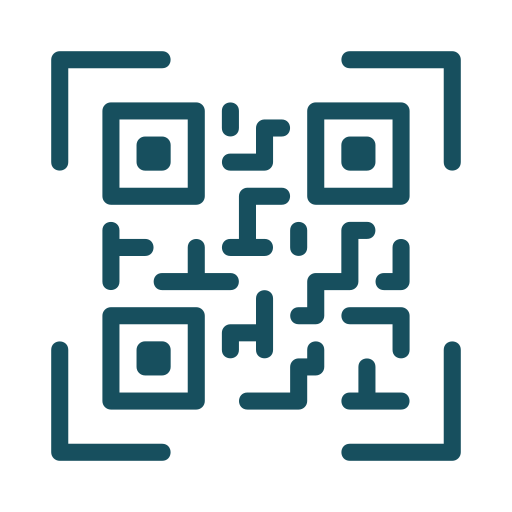
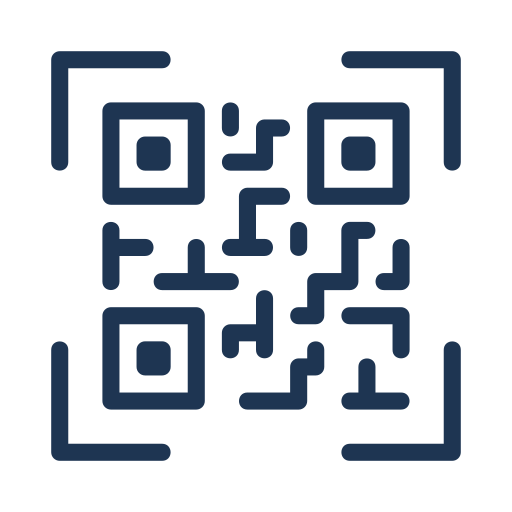
REFACTOR: change hero image and make web responsive for mobile

diff --git a/src/components/TheChat.vue b/src/components/TheChat.vue
@@ -81,7 +81,8 @@
 				const response = await axios.post(
 					"https://appservicecoche-a3emdug0gfeggxfk.westeurope-01.azurewebsites.net/chat",
 					{
-						query: userMessage + " " + brand.value + " "  + model.value,
+						query:
+							userMessage + " " + brand.value + " " + model.value,
 						prompt:
 							brand.value && model.value
 								? `Dentro de la compañía Stratesys Cars, especializada en venta de automóviles de segunda mano, eres un asistente útil que proporciona información sobre coches basándose únicamente en los datos proporcionados a continuación. Los automóviles están expuestos y tienen una pegatina QR identificativa en su parabrisas. En este caso el cliente ha escaneado el QR pegado al parabrisas del ${brand.value} ${model.value} y la conversación y respuestas deberían ir orientadas a su interés sobre este automóvil en concreto, iniciando cada una de las respuesta con un encabezado con la marca y modelo del coche cuya pegatina ha escaneado el cliente. No incluyas ninguna información que no esté presente en las fuentes. No utilices ningún conocimiento previo ni hagas suposiciones. Proporciona la respuesta de manera amigable y concisa en forma de viñetas. Si no hay suficiente información a continuación, di que no lo sabes. No menciones ningún coche ni detalles que no estén incluidos en las fuentes.`
@@ -170,7 +171,7 @@
 
 	/* Encabezado */
 	.chat-header {
-		background-color: #174f5e;
+		background-color: #1e3552;
 		color: #ffffff;
 		text-align: center;
 		padding: 1rem;
@@ -203,11 +204,11 @@
 
 	.chat-message i {
 		font-size: 20px;
-		color: #174f5e;
+		color: #1e3552;
 	}
 
 	.chat-message span {
-		background-color: #174f5e56;
+		background-color: #1e355256;
 		padding: 5px 10px;
 		border-radius: 5px;
 		color: black;
@@ -263,7 +264,7 @@
 	/* Botón de enviar */
 	.chat-input button {
 		padding: 0.75rem 1rem;
-		background-color: #174f5e;
+		background-color: #1e3552;
 		color: #ffffff;
 		font-size: 16px;
 		border: none;
@@ -275,9 +276,9 @@
 	}
 
 	.chat-input button:hover {
-		border: 1px solid #174f5e;
+		border: 1px solid #1e3552;
 		background-color: #ffffff;
-		color: #174f5e;
+		color: #1e3552;
 	}
 
 	/* Scroll personalizado */
@@ -322,6 +323,45 @@
 		100% {
 			box-shadow: 20px 0 #fff2, -20px 0 #fff;
 			background: #fff;
+		}
+	}
+
+	@media (max-width: 500px) {
+		.chat-container {
+			width: 350px;
+			height: 480px;
+			height: calc(100vh - 80px - 110px);
+		}
+		.chat-display {
+			height: calc(100vh - 80px - 110px - 65px);
+		}
+
+		.chat-header {
+			font-size: 22px;
+		}
+
+		.chat-message {
+			font-size: 12px;
+			text-align: left;
+		}
+
+		.chat-message i {
+			font-size: 14px;
+		}
+
+		.chat-input input {
+			font-size: 12px;
+		}
+
+		/* Botón de enviar */
+		.chat-input button {
+			font-size: 12px;
+		}
+	}
+
+	@media (max-width: 360px) {
+		.chat-container {
+			width: 330px;
 		}
 	}
 </style>

diff --git a/src/views/HomeView.vue b/src/views/HomeView.vue
@@ -46,8 +46,8 @@
 
 <template>
 	<div class="hero">
-		<div>
-			<h1>La compra de tu auto, más fácil que nunca</h1>
+		<div class="hero-content">
+			<h1>La compra de tu auto, <u>más fácil que nunca</u></h1>
 			<ChatView class="chat" v-if="openChat" />
 			<div class="qr-reader-fullscreen" v-if="showQrCodeReader">
 				<QrcodeStream
@@ -116,8 +116,8 @@
 	}
 
 	.hero {
-		height: calc(100vh - 90px);
-		background-image: url("@/assets/hero.jpg");
+		height: calc(100vh - 72.07px);
+		background-image: url("@/assets/bg-qr.jpg");
 		background-size: cover;
 		background-position: top;
 		padding: 50px;
@@ -129,10 +129,10 @@
 		max-width: 60%;
 		font-size: 90px;
 		font-style: italic;
-		color: #174f5e;
+		color: #fff;
 		position: absolute;
 		top: 20%;
-		text-shadow: 6px 6px 6px #ffffff;
+		text-shadow: 6px 6px 6px #1e3552;
 	}
 
 	.chat {
@@ -150,15 +150,79 @@
 		z-index: 11;
 		top: 16.3%;
 		right: 3%;
-		border-radius: 5px;
-		border: #174f5e solid 2px;
+		border: #1e3552 solid 2px;
 		background-color: #f9f9f9;
 	}
 
 	.qr-reader-fullscreen .qr-lector h3 {
-		background-color: #174f5e5c;
+		background-color: #1e35525c;
 		text-align: center;
 		color: #f9f9f9;
 		padding: 10px;
+	}
+
+	@media (max-width: 500px) {
+		.hero {
+			height: calc(100vh - 72.07px);
+			background-position: right;
+			padding: 5px;
+		}
+
+		.hero > .hero-content {
+			min-width: 100%;
+		}
+
+		.hero > div > h1 {
+			max-width: 100%;
+			font-size: 70px;
+			text-align: center;
+			top: 0;
+			right: 0;
+			left: 0;
+			bottom: 0;
+			margin: 0 10px;
+		}
+
+		.chat-button-container {
+			bottom: 20px;
+			right: 10px;
+			gap: 10px;
+		}
+
+		.chat-button-container span {
+			font-size: 12px;
+		}
+
+		.chat-button-container .chat-button {
+			width: 50px;
+			height: 50px;
+		}
+
+		.chat-button-container .chat-button img {
+			width: 30px;
+		}
+
+		.chat {
+			z-index: 10;
+			margin-left: auto;
+			margin-right: auto;
+			left: 0;
+			right: 0;
+			bottom: 120px;
+			text-align: center;
+		}
+
+		.qr-reader-fullscreen {
+			position: fixed;
+			max-width: 93%;
+			height: calc(100vh - 75px - 110px);
+			z-index: 11;
+			top: 80px;
+			text-align: center;
+		}
+
+		.qr-reader-fullscreen .qr-lector h3 {
+			font-size: 16px;
+		}
 	}
 </style>

diff --git a/src/views/ChatView.vue b/src/views/ChatView.vue
@@ -1,22 +1,10 @@
 <script setup>
 	// IMPORTS
-	// import { useRoute } from "vue-router";
 	import TheChat from "@/components/TheChat.vue";
-
-	// // ROUTER
-	// const route = useRoute();
-
-	// // DATA
-	// const brand = route.query.brand;
-	// const model = route.query.model;
 </script>
 
 <template>
 	<div class="car-container">
-		<!-- <h1>
-			¿QUIERS SABER MÁS SOBRE EL
-			{{ brand.toUpperCase() + " " + model.toUpperCase() }}?
-		</h1> -->
 		<TheChat />
 	</div>
 </template>
@@ -27,9 +15,16 @@
 		display: flex;
 		align-items: center;
 		justify-content: center;
-		gap: 50px;
-		background-image: url("@/assets/hero.jpg");
+		background-image: url("@/assets/bg-qr.jpg");
 		background-size: cover;
 		background-position: top;
+	}
+
+	@media (max-width: 500px) {
+		.car-container {
+			height: calc(100vh - 72.07px);
+			background-position: right;
+			padding: 5px;
+		}
 	}
 </style>

diff --git a/src/components/TheHeader.vue b/src/components/TheHeader.vue
@@ -7,9 +7,6 @@
 					<h1>Stratesys Cars</h1>
 				</RouterLink>
 			</div>
-			<!-- <nav>
-				<RouterLink to="/chat">Chat with us!</RouterLink>
-			</nav> -->
 		</div>
 	</header>
 </template>
@@ -27,8 +24,6 @@
 
 	.header-wrapper {
 		padding: 20px 0;
-		display: flex;
-		justify-content: space-between;
 	}
 
 	.logo-wrapper a {
@@ -36,10 +31,24 @@
 		align-items: center;
 		gap: 10px;
 		text-decoration: none;
-		color: #174f5e;
+		color: #1e3552;
 	}
 
 	.header-wrapper img {
 		width: 50px;
+	}
+
+	@media (max-width: 500px) {
+		header {
+			justify-content: center;
+		}
+
+		.header-wrapper h1 {
+			font-size: 20px;
+		}
+
+		.header-wrapper img {
+			width: 30px;
+		}
 	}
 </style>
